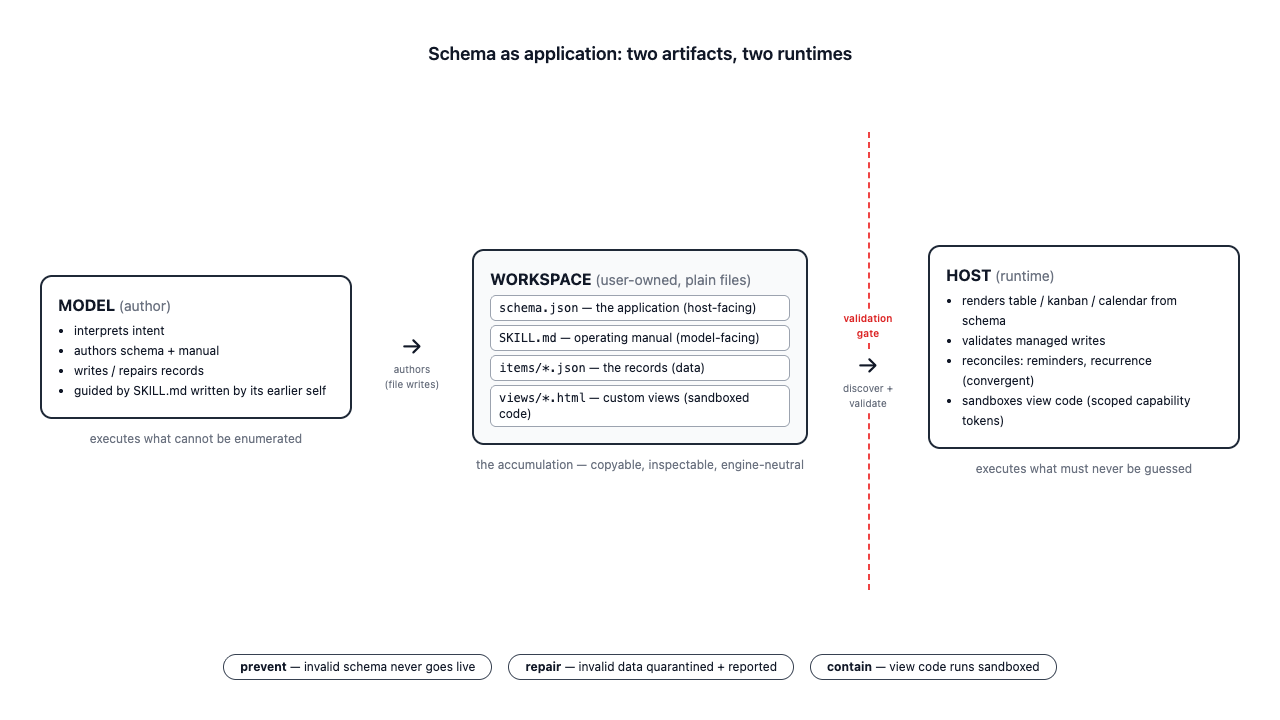
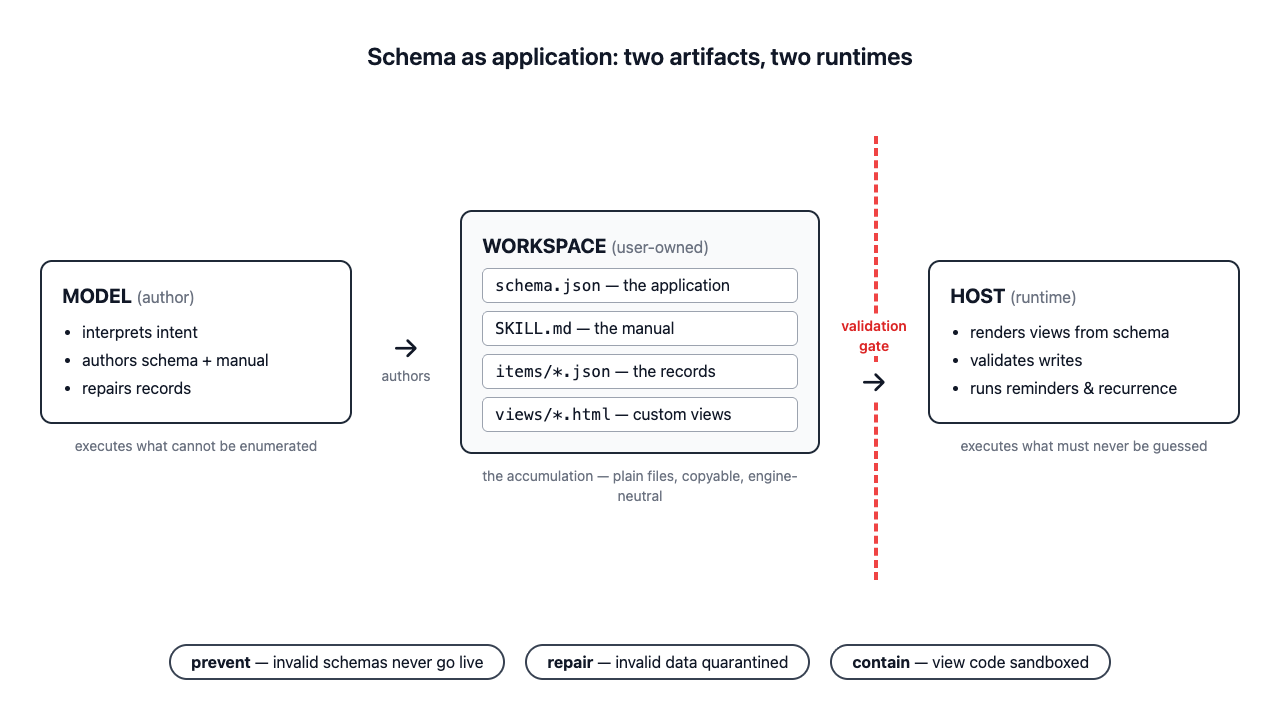
Redesign Figure 1 for print readability; add space above Table 2
Figure 1: three items per box instead of four-plus, font sizes roughly
doubled, thicker validation-gate stroke, arrow labels simplified; the
dropped details (SKILL.md provenance, sandbox capability tokens,
convergent reconciliation) live in the caption and body text. Source
and render both updated.

Table 2 (transfer matrix) gets breathing room above the caption.

diff --git a/docs/arxiv/nurtured-at-home/main.tex b/docs/arxiv/nurtured-at-home/main.tex
@@ -839,6 +839,7 @@ generously-codable category (wiki pages, as exported documents) changes the
 artifact tallies and none of the functional zeros.
 
 \begin{table}[t]
+\vspace*{1.2em}
 \centering
 \caption{The E3 transfer matrix: what a memory-only export carries. Export scope
 = conversation history + distilled context (the memory-portability class); the